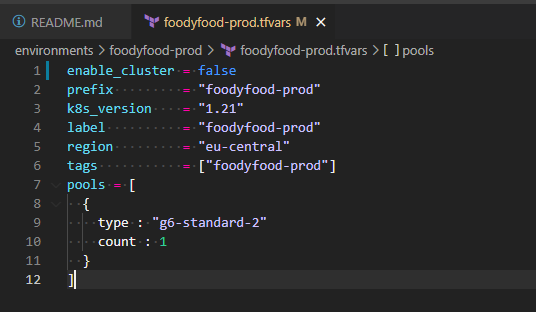
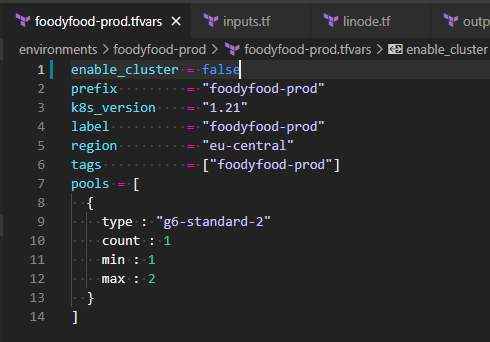
add autoscaling

diff --git a/README.md b/README.md
@@ -2,11 +2,13 @@
 
 This repo builds my own personal cluster, if you clone this repo and push it to your account, it will create a GitHub workflow that then builds your cluster.
 
-The anifests folder is the actual IaC, don't worry too much about it. The main place you want to go is environments. In here you will see my 'foodyfood-prod' cluster and also a template you can use to make your own.
+The manifests folder is the actual IaC, don't worry too much about it. The main place you want to go is environments. In here you will see my 'foodyfood-prod' cluster and also a template you can use to make your own.
 
-If you run everything as is it will build you a very small cluster of 1 node, 4 vCPU, and 8GB memory.
+If you run everything as is it will build you a very small cluster of 1 node, 2 vCPU, and 4GB memory.
 
-Take a look in this file to adjust the size, location, or label of the cluster.
+The 'min/max' are for autoscaling, by default the cluster will scale up to a max of 2 nodes when needed.
+
+Take a look in this file to adjust the size, location, min/max nodes, or label (name) of the cluster.
 
 ```bash
 ./environments/foodyfood-prod/foodyfood-prod.tfvars
